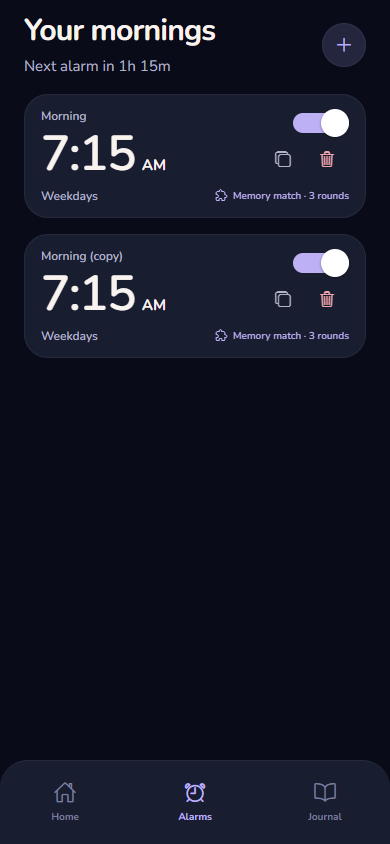
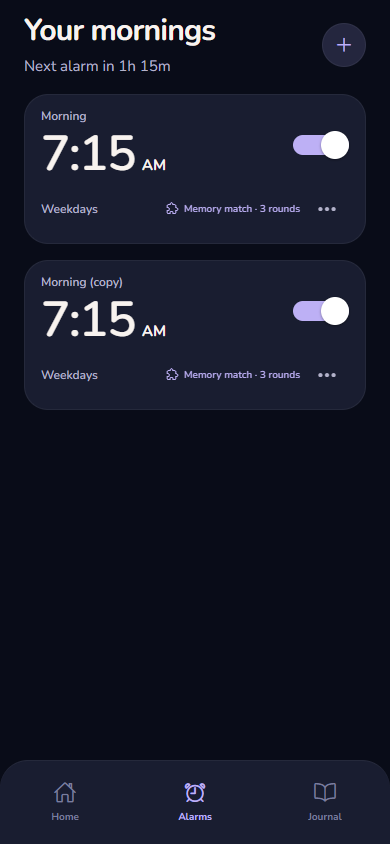
vertical dots

diff --git a/tests/alarm-card-actions.spec.ts b/tests/alarm-card-actions.spec.ts
@@ -23,13 +23,18 @@ async function seed(page: Page, enabled = true) {
   }, enabled);
 }
 
+async function chooseAction(page: Page, action: "Duplicate" | "Delete", label = "Morning") {
+  await page.getByRole("button", { name: `More options for ${label}`, exact: true }).click();
+  await page.getByRole("menuitem", { name: `${action} ${label}`, exact: true }).click();
+}
+
 const readAlarms = (page: Page) => page.evaluate(() => JSON.parse(localStorage.getItem("daybreak.state.v1")!).alarms);
 
 for (const enabled of [true, false]) test(`duplicate preserves an ${enabled ? "enabled" : "disabled"} alarm and all its settings`, async ({ page }) => {
   await seed(page, enabled);
   await page.goto("/alarms");
   const before = (await readAlarms(page))[0];
-  await page.getByRole("button", { name: "Duplicate Morning", exact: true }).click();
+  await chooseAction(page, "Duplicate");
   await expect(page.getByText("Morning (copy)", { exact: true })).toBeVisible();
   await page.reload();
   const alarms = await readAlarms(page);
@@ -40,28 +45,33 @@ for (const enabled of [true, false]) test(`duplicate preserves an ${enabled ? "e
   expect(id).not.toBe(originalId);
   expect(copySettings).toEqual(originalSettings);
   if (enabled) expect(registration.ids).not.toContain("source-registration");
-  await page.getByRole("button", { name: "Duplicate Morning", exact: true }).click();
+  await chooseAction(page, "Duplicate");
   await expect(page.getByText("Morning (copy 2)", { exact: true })).toBeVisible();
 });
 
 test("delete can be cancelled, removes only the chosen record, and is available on Home", async ({ page }) => {
   await seed(page);
   await page.goto("/alarms");
-  await page.getByRole("button", { name: "Duplicate Morning", exact: true }).click();
+  await chooseAction(page, "Duplicate");
   await expect(page.getByText("Morning (copy)", { exact: true })).toBeVisible();
-  await page.getByRole("button", { name: "Delete Morning", exact: true }).click();
+  await chooseAction(page, "Delete");
   await expect(page.getByRole("button", { name: "Confirm delete Morning", exact: true })).toBeVisible();
   await page.getByRole("button", { name: "Keep Morning", exact: true }).click();
   expect(await readAlarms(page)).toHaveLength(2);
+  await expect(page.getByRole("menuitem")).toHaveCount(0);
   await page.screenshot({ path: "artifacts/alarm-record-actions.png" });
-  await page.getByRole("button", { name: "Delete Morning (copy)", exact: true }).click();
+  await page.getByRole("button", { name: "More options for Morning", exact: true }).click();
+  await page.screenshot({ path: "artifacts/alarm-record-menu.png" });
+  await page.keyboard.press("Escape");
+  await expect(page.getByRole("menuitem")).toHaveCount(0);
+  await chooseAction(page, "Delete", "Morning (copy)");
   await page.getByRole("button", { name: "Confirm delete Morning (copy)", exact: true }).click();
   await expect(page.getByText("Morning (copy)", { exact: true })).toHaveCount(0);
   await page.reload();
   expect((await readAlarms(page)).map((a: { id: string }) => a.id)).toEqual(["original"]);
   await page.getByRole("tab", { name: "Home", exact: true }).click();
-  await expect(page.getByRole("button", { name: "Duplicate Morning", exact: true })).toBeVisible();
-  await page.getByRole("button", { name: "Delete Morning", exact: true }).click();
+  await expect(page.getByRole("button", { name: "More options for Morning", exact: true })).toBeVisible();
+  await chooseAction(page, "Delete");
   await page.getByRole("button", { name: "Confirm delete Morning", exact: true }).click();
   await expect(page.getByRole("button", { name: "Set your first alarm", exact: true })).toBeVisible();
   expect(await readAlarms(page)).toHaveLength(0);
@@ -72,11 +82,13 @@ for (const action of ["Duplicate", "Delete"]) test(`a failed ${action.toLowerCas
   await page.goto("/alarms");
   await page.evaluate(() => { (window as any).failAlarmAction = true; });
   const button = action === "Duplicate" ? "Duplicate Morning" : "Confirm delete Morning";
-  if (action === "Delete") await page.getByRole("button", { name: "Delete Morning", exact: true }).click();
-  await page.getByRole("button", { name: button, exact: true }).click();
+  if (action === "Delete") await chooseAction(page, "Delete");
+  if (action === "Duplicate") await chooseAction(page, "Duplicate");
+  else await page.getByRole("button", { name: button, exact: true }).click();
   await expect(page.getByRole("alert")).toHaveText("Could not save alarm change");
   expect((await readAlarms(page)).map((a: { id: string }) => a.id)).toEqual(["original"]);
   await page.getByRole("button", { name: "Dismiss message", exact: true }).click();
-  await page.getByRole("button", { name: button, exact: true }).click();
+  if (action === "Duplicate") await chooseAction(page, "Duplicate");
+  else await page.getByRole("button", { name: button, exact: true }).click();
   await expect.poll(async () => (await readAlarms(page)).length).toBe(action === "Duplicate" ? 2 : 0);
 });

diff --git a/src/components/alarm-actions-menu.web.tsx b/src/components/alarm-actions-menu.web.tsx
@@ -1,0 +1,60 @@
+import { useEffect, useRef, useState } from "react";
+import { Modal } from "react-native";
+import { Icon } from "./icon";
+import { colors as c, fonts } from "@/theme";
+import type { AlarmActionsMenuProps } from "./alarm-actions-menu";
+
+export function AlarmActionsMenu({ label, disabled, onDuplicate, onDelete }: AlarmActionsMenuProps) {
+  const trigger = useRef<HTMLButtonElement>(null);
+  const menu = useRef<HTMLDivElement>(null);
+  const [position, setPosition] = useState<{ top: number; right: number } | null>(null);
+  const close = () => { setPosition(null); trigger.current?.focus(); };
+  useEffect(() => {
+    if (!position) return;
+    menu.current?.querySelector<HTMLButtonElement>("button")?.focus();
+    const dismiss = () => setPosition(null);
+    window.addEventListener("resize", dismiss);
+    window.addEventListener("scroll", dismiss, true);
+    return () => {
+      window.removeEventListener("resize", dismiss);
+      window.removeEventListener("scroll", dismiss, true);
+    };
+  }, [position]);
+  return <>
+    <button ref={trigger} type="button" aria-label={`More options for ${label}`}
+      aria-haspopup="menu" aria-expanded={!!position} disabled={disabled}
+      style={{ border: 0, padding: 0, background: "transparent", width: 44, height: 44,
+        display: "flex", alignItems: "center", justifyContent: "center", cursor: "pointer", opacity: disabled ? .45 : 1 }}
+      onClick={() => {
+        const rect = trigger.current!.getBoundingClientRect();
+        setPosition({ top: Math.max(8, Math.min(rect.bottom + 4, window.innerHeight - 112)), right: Math.max(8, window.innerWidth - rect.right) });
+      }}>
+      <Icon name="ellipsis-vertical" size={21} color={c.muted} />
+    </button>
+    <Modal visible={!!position} transparent animationType="none" onRequestClose={close}>
+    {position && <div style={{ position: "fixed", inset: 0 }}
+      onClick={close} onKeyDown={event => {
+        if (event.key === "Escape" || event.key === "Tab") { event.preventDefault(); close(); }
+        if (event.key === "ArrowDown" || event.key === "ArrowUp") {
+          event.preventDefault();
+          const items = Array.from(menu.current!.querySelectorAll<HTMLButtonElement>("button"));
+          const index = items.indexOf(document.activeElement as HTMLButtonElement);
+          items[(index + (event.key === "ArrowDown" ? 1 : items.length - 1)) % items.length]?.focus();
+        }
+      }}>
+      <div ref={menu} role="menu" aria-label={`Options for ${label}`} onClick={event => event.stopPropagation()}
+        style={{ position: "absolute", ...position, width: 180, padding: 4, borderRadius: 14,
+          background: c.surface, border: `1px solid ${c.line}`, boxShadow: "0 8px 30px #0006" }}>
+        {(["Duplicate", "Delete"] as const).map(action => <button key={action} type="button" role="menuitem"
+          aria-label={`${action} ${label}`} disabled={disabled}
+          onClick={() => { close(); if (action === "Duplicate") onDuplicate(); else onDelete(); }}
+          style={{ display: "flex", alignItems: "center", justifyContent: "space-between", width: "100%",
+            minHeight: 44, border: 0, borderRadius: 10, padding: "0 12px", background: "transparent",
+            color: action === "Delete" ? c.danger : c.text, fontFamily: fonts.medium, fontSize: 14, cursor: "pointer" }}>
+          {action}<Icon name={action === "Delete" ? "trash-outline" : "copy-outline"} size={18} color={action === "Delete" ? c.danger : c.muted} />
+        </button>)}
+      </div>
+    </div>}
+    </Modal>
+  </>;
+}

diff --git a/src/components/alarm-card.tsx b/src/components/alarm-card.tsx
@@ -2,6 +2,7 @@ import { useRef, useState } from "react";
 import { View } from "react-native";
 import { haptic, withHapticFeedback } from "@/services/haptics";
 import { AlarmSwitch } from "./alarm-switch";
+import { AlarmActionsMenu } from "./alarm-actions-menu";
 import { router } from "expo-router";
 import { Card, T, Tap, Icon } from "./ui";
 import { colors as c, fonts } from "@/theme";
@@ -80,8 +81,7 @@ export function AlarmCard({
             <T variant="label">{alarm.hour < 12 ? "AM" : "PM"}</T>
           </View>
         </Tap>
-        <View style={{ alignItems: "flex-end" }}>
-          <AlarmSwitch
+        <AlarmSwitch
           value={alarm.enabled}
           onValueChange={(value) =>
             void saveAlarm({ ...alarm, enabled: value }).catch(() => haptic("error"))
@@ -89,22 +89,7 @@ export function AlarmCard({
           disabled={busy}
           label={`Enable ${alarm.label}`}
           testID={`toggle-${alarm.id}`}
-          />
-          <View style={{ flexDirection: "row" }}>
-            <Tap label={`Duplicate ${alarm.label}`} disabled={busy} haptic={false}
-              onPress={() => { setConfirmDelete(false); void act(() => duplicateAlarm(alarm)); }}>
-              <View style={{ width: 44, height: 44, alignItems: "center", justifyContent: "center" }}>
-                <Icon name="copy-outline" size={18} color={c.muted} />
-              </View>
-            </Tap>
-            <Tap label={`Delete ${alarm.label}`} disabled={busy} haptic="medium"
-              onPress={() => setConfirmDelete(true)}>
-              <View style={{ width: 44, height: 44, alignItems: "center", justifyContent: "center" }}>
-                <Icon name="trash-outline" size={18} color={c.danger} />
-              </View>
-            </Tap>
-          </View>
-        </View>
+        />
       </View>
       <View
         style={{
@@ -130,6 +115,9 @@ export function AlarmCard({
           <T variant="small" style={{ color: c.lavender, fontSize: 10 }}>
             {alarmMissions(alarm).length > 1 ? `${alarmMissions(alarm).length} missions` : alarmMissions(alarm)[0] ? missionLabel(alarmMissions(alarm)[0]) : "No missions"}
           </T>
+          <AlarmActionsMenu label={alarm.label} disabled={busy}
+            onDuplicate={() => { setConfirmDelete(false); void act(() => duplicateAlarm(alarm)); }}
+            onDelete={() => { haptic("medium"); setConfirmDelete(true); }} />
         </View>
       </View>
       {confirmDelete && <View style={{ marginTop: 8, paddingTop: 12, borderTopWidth: 1, borderTopColor: c.line, gap: 8 }}>

diff --git a/src/components/alarm-actions-menu.tsx b/src/components/alarm-actions-menu.tsx
@@ -1,0 +1,35 @@
+import { View } from "react-native";
+import { MenuView } from "@expo/ui/community/menu";
+import { Icon } from "./icon";
+import { colors } from "@/theme";
+
+export type AlarmActionsMenuProps = {
+  label: string;
+  disabled: boolean;
+  onDuplicate: () => void;
+  onDelete: () => void;
+};
+
+export function AlarmActionsMenu({ label, disabled, onDuplicate, onDelete }: AlarmActionsMenuProps) {
+  return (
+    <View pointerEvents={disabled ? "none" : "auto"} style={{ opacity: disabled ? 0.45 : 1 }}>
+      <MenuView
+        shouldOpenOnLongPress={false}
+        actions={[
+          { id: "duplicate", title: "Duplicate", image: "doc.on.doc", attributes: { disabled } },
+          { id: "delete", title: "Delete", image: "trash", attributes: { destructive: true, disabled } },
+        ]}
+        onPressAction={({ nativeEvent }) => {
+          if (disabled) return;
+          if (nativeEvent.event === "duplicate") onDuplicate();
+          if (nativeEvent.event === "delete") onDelete();
+        }}
+      >
+        <View accessibilityLabel={`More options for ${label}`} accessibilityRole="button"
+          style={{ width: 44, height: 44, alignItems: "center", justifyContent: "center" }}>
+          <Icon name="ellipsis-vertical" size={21} color={colors.muted} />
+        </View>
+      </MenuView>
+    </View>
+  );
+}

diff --git a/tests/app.spec.ts b/tests/app.spec.ts
@@ -189,7 +189,8 @@ test("onboarding, alarm editing, persistence, challenges, journal, and deletion"
     .click();
   await expect(page.getByRole("button", { name: "Delete alarm", exact: true })).toHaveCount(0);
   await page.getByRole("button", { name: "Save alarm", exact: true }).click();
-  await page.getByRole("button", { name: "Delete A lovely morning", exact: true }).click();
+  await page.getByRole("button", { name: "More options for A lovely morning", exact: true }).click();
+  await page.getByRole("menuitem", { name: "Delete A lovely morning", exact: true }).click();
   await page
     .getByRole("button", { name: "Confirm delete A lovely morning", exact: true })
     .click();

diff --git a/src/components/icon.ios.tsx b/src/components/icon.ios.tsx
@@ -11,6 +11,8 @@ const symbols: Partial<Record<IconName, SymbolViewProps["name"]>> = {
   "alarm-outline": "alarm",
   "copy-outline": "doc.on.doc",
   "trash-outline": "trash",
+  "ellipsis-horizontal": "ellipsis",
+  "ellipsis-vertical": "ellipsis",
   "book-outline": "book.closed",
   add: "plus",
   checkmark: "checkmark",
@@ -52,7 +54,7 @@ export function Icon({
       name={symbols[name] ?? "circle"}
       size={size}
       tintColor={color}
-      style={{ width: size, height: size }}
+      style={{ width: size, height: size, ...(name === "ellipsis-vertical" ? { transform: [{ rotate: "90deg" }] } : {}) }}
       accessible={false}
     />
   );
